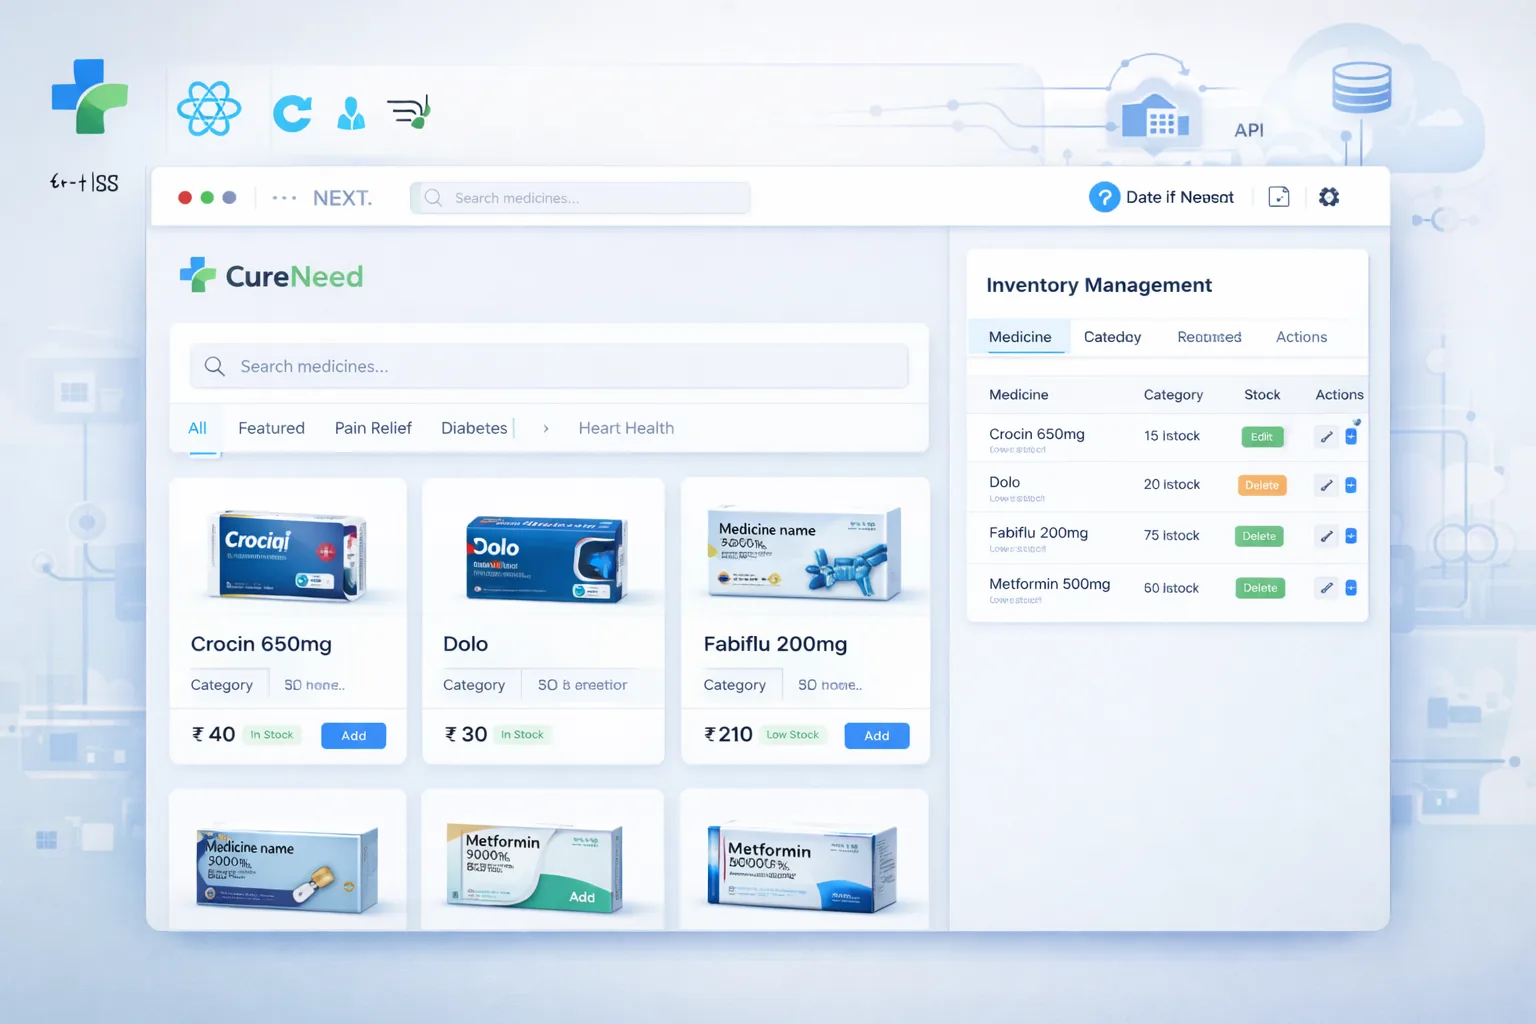
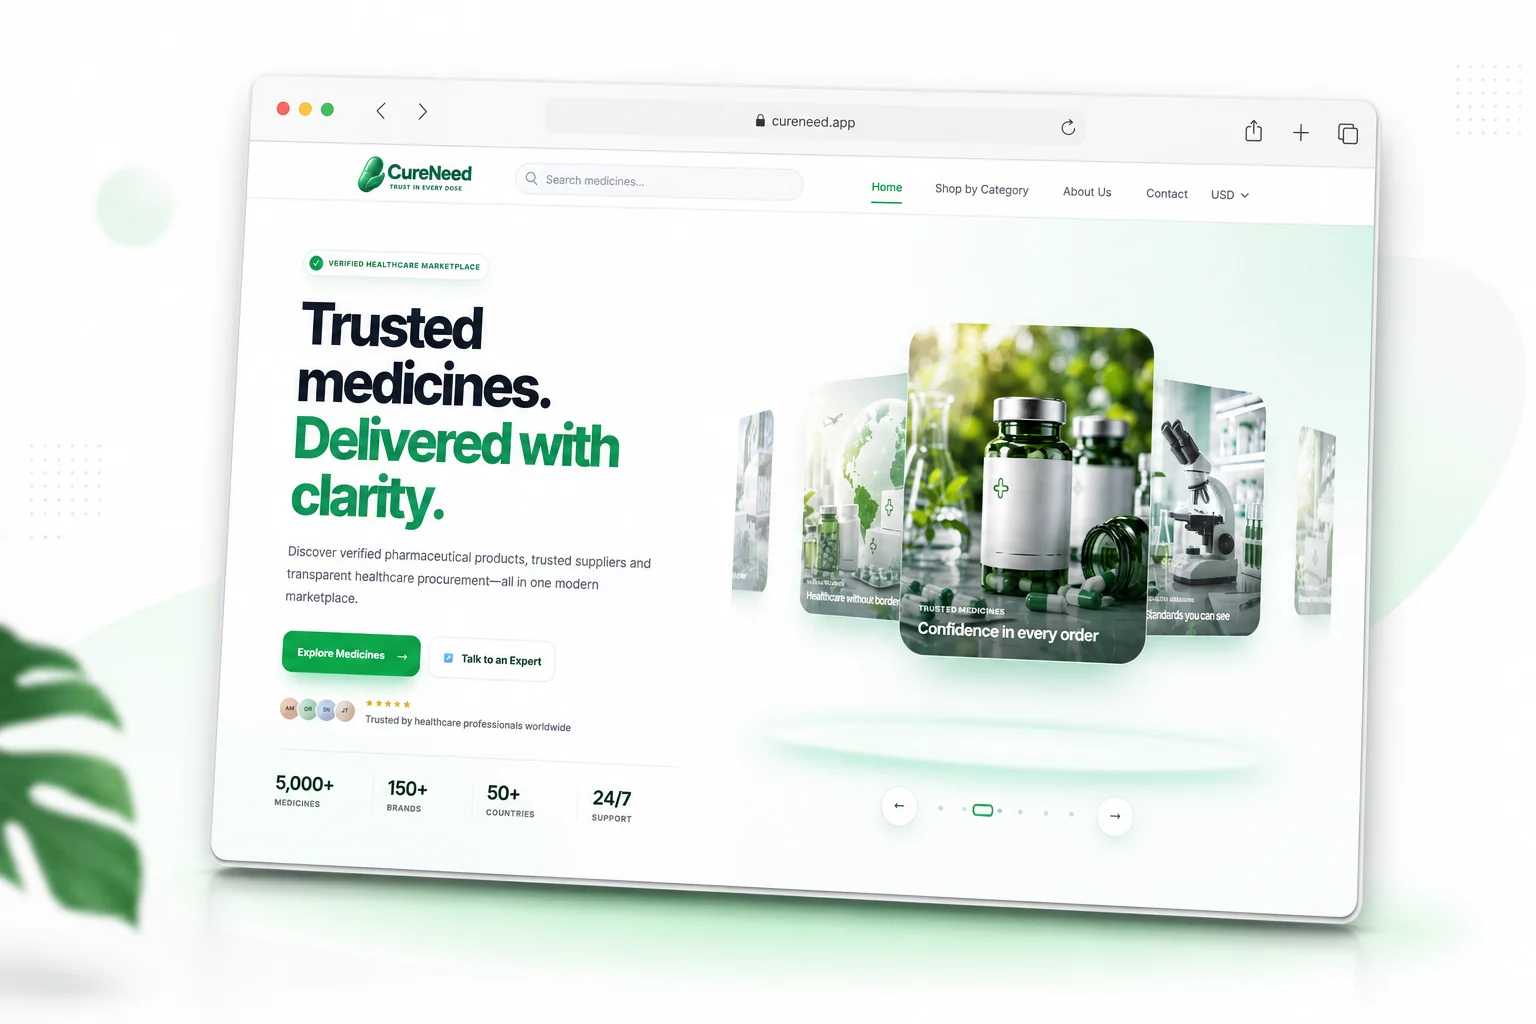
Swap CureNeed to presentation mockup; drop OutPass project
- New CureNeed image is a finished mockup with its own browser chrome,
  perspective and background. Added a 'presentation' flag so such images
  render as-is instead of being nested inside another browser frame and
  tilted a second time.
- Remove Hostel OutPass Manager and its three orphaned image files
- Projects stat 5 -> 4

diff --git a/app/src/data/projects.js b/app/src/data/projects.js
@@ -9,6 +9,13 @@
  *           which is a visible reminder to go and deploy it.
  * image   : file inside /public/images (use the .webp versions)
  * browser : the fake URL shown in the mockup's address bar
+ *
+ * presentation:
+ *   true  -> the image is already a finished mockup (it has its own
+ *            browser chrome / perspective / background), so it is shown
+ *            as-is with a soft float. Do NOT wrap it in more chrome.
+ *   false -> a plain screenshot; the site wraps it in a browser frame
+ *            and tilts it in 3D toward the cursor.
  */
 
 export const projects = [
@@ -19,6 +26,7 @@ export const projects = [
       'A structured medicine management and storefront system with automated categorisation and real-time backend synchronisation, integrated into a wider medical platform.',
     image: '/images/cureneed.webp',
     browser: 'cureneed.app',
+    presentation: true,
     tech: ['Next.js', 'React', 'Node.js', 'Express', 'Tailwind CSS'],
     githubUrl: 'https://github.com/hardik-ajmeriya/MedCare',
     liveUrl: '',
@@ -60,22 +68,10 @@ export const projects = [
     liveUrl: '',
     status: 'Completed',
   },
-  {
-    id: 'outpass',
-    title: 'Hostel OutPass Manager',
-    description:
-      'A Flutter application with separate student and warden portals, backed by a Node and MongoDB API, that digitises hostel outpass approvals end to end.',
-    image: '/images/outpass.webp',
-    browser: 'outpass.app',
-    tech: ['Flutter', 'Dart', 'Node.js', 'MongoDB'],
-    githubUrl: 'https://github.com/hardik-ajmeriya/hostel_outpass_manager',
-    liveUrl: '',
-    status: 'Completed',
-  },
 ];
 
 export const stats = [
-  { value: 5, suffix: '', label: 'Projects built end-to-end' },
+  { value: 4, suffix: '', label: 'Projects built end-to-end' },
   { value: 18, suffix: '+', label: 'CI/CD pipelines configured' },
   { value: 20, suffix: '+', label: 'Tools & services used' },
   { value: null, display: '<48h', label: 'Typical reply time' },

diff --git a/app/src/components/sections/Work.jsx b/app/src/components/sections/Work.jsx
@@ -3,6 +3,27 @@ import { projects } from '../../data/projects';
 import { useRevealGroup } from '../../hooks/useReveal';
 import Magnetic from '../Magnetic';
 
+/**
+ * For images that are already finished presentation mockups — they carry
+ * their own browser chrome, perspective and background, so wrapping them in
+ * another frame would nest a browser inside a browser. Shown as-is, with a
+ * soft lift on hover.
+ */
+function PresentationShot({ image, title }) {
+  return (
+    <div className="rv">
+      <img
+        src={image}
+        alt={title}
+        loading="lazy"
+        decoding="async"
+        data-cursor-grow
+        className="w-full rounded-xl transition-transform duration-700 ease-smooth hover:-translate-y-2"
+      />
+    </div>
+  );
+}
+
 /** A browser-chrome mockup that tilts in 3D toward the cursor. */
 function TiltWindow({ image, browser, title }) {
   const stageRef = useRef(null);
@@ -183,7 +204,11 @@ export default function Work() {
             </div>
 
             <div className={i % 2 === 1 ? 'lg:order-1' : ''}>
-              <TiltWindow image={p.image} browser={p.browser} title={p.title} />
+              {p.presentation ? (
+                <PresentationShot image={p.image} title={p.title} />
+              ) : (
+                <TiltWindow image={p.image} browser={p.browser} title={p.title} />
+              )}
             </div>
           </article>
         ))}

diff --git a/app/src/components/Navbar.jsx b/app/src/components/Navbar.jsx
@@ -24,7 +24,7 @@ export default function Navbar() {
       <nav className="fixed inset-x-0 top-0 z-50 text-white mix-blend-difference">
         <div className="mx-auto flex max-w-shell items-center justify-between px-6 py-6 md:px-10">
           <a href="#top" className="font-display text-[19px] font-extrabold tracking-[-0.03em]">
-            Hardik
+            Hardik Ajmeriya
           </a>
 
           <div className="hidden gap-9 md:flex">
